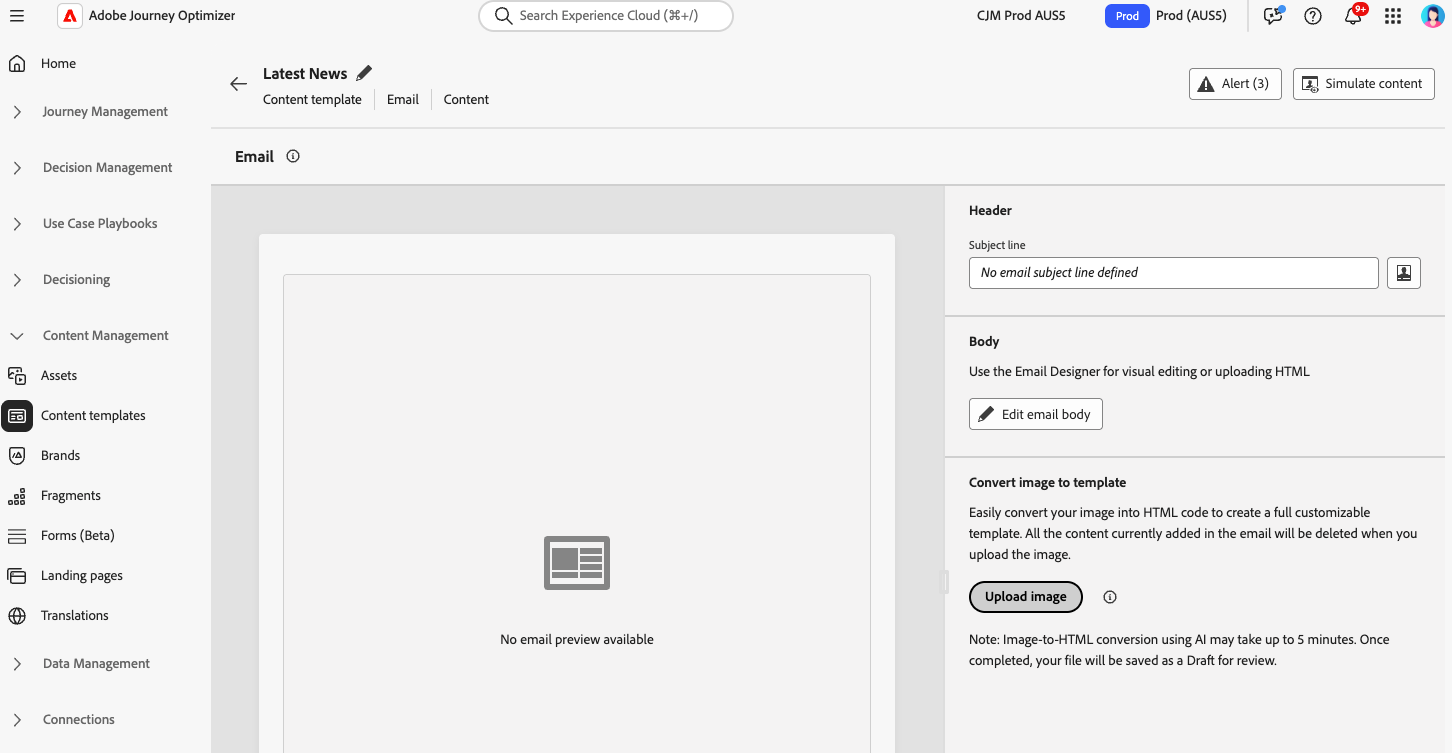
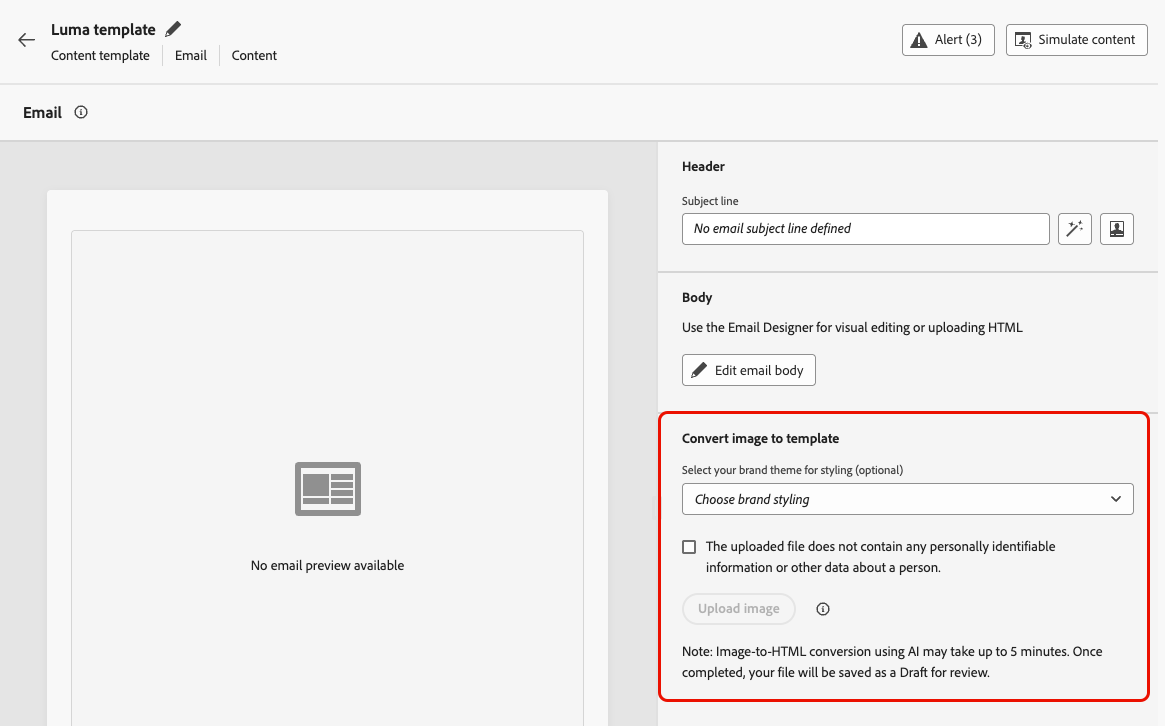
DOCAC-14105 - Themes in HTML converter + updates (#2220)
* DOCAC-14105 - Theme option added to HTML converter

* Update image-to-html.md

Improved AI-generated content

* DOCAC-14152 - Moved Image to HTML template page + link updates

* Update release-notes.md

diff --git a/help/using/content-management/image-to-html.md b/help/using/content-management/image-to-html.md
@@ -1,7 +1,7 @@
 ---
 solution: Journey Optimizer
 product: journey optimizer
-title: Convert images to HTML templates with the image to HTML converter
+title: Convert images to HTML templates
 description: Learn how to use the AI-powered image to HTML converter to convert image designs into editable HTML email templates
 feature: Email Design
 topic: Content Management, Artificial Intelligence
@@ -11,107 +11,102 @@ badge: label="Limited availability" type="Informative"
 keywords: email, template, image, HTML, AI, design, converter
 exl-id: d13467b7-2f3c-4707-a7e0-9b46cb6cafb1
 ---
-# Convert images to HTML templates with the image to HTML converter {#image-to-html}
-
-## Overview {#overview}
-
-The image to HTML converter is an innovative AI-powered feature available in the **Content Templates** menu that dramatically speeds up email creation by converting static image designs into fully customizable, modular HTML email content templates. This no-code tool enables marketers to transform visual designs from graphic designers or design tools into responsive, editable email templates that can be saved to the Content Templates library and then reused across multiple journeys and campaigns—without requiring technical expertise.
+# Convert images to HTML templates {#image-to-html}
 
 >[!AVAILABILITY]
 >
 >This capability is available in Limited Availability. Contact your Adobe representative to gain access.
 
-By leveraging generative AI technology, the image to HTML converter analyzes the layout, typography, colors, and visual elements in your image and generates clean, modular HTML code that maintains design fidelity while ensuring full editability and compatibility with the Email Designer. This eliminates the manual, time-consuming process of converting mockups to HTML and reduces dependency on development resources.
+[!DNL Journey Optimizer] helps you dramatically speed up email creation by converting static image designs into fully customizable, modular HTML email content templates.
 
-**Key benefits:**
+By leveraging generative AI technology, an integrated tool analyzes the layout, typography, colors, and visual elements in your image and generates clean, modular HTML code that maintains design fidelity while ensuring full editability with the [Email Designer](../email/get-started-email-design.md). 
 
-* **Design to HTML in minutes**: AI-powered, no-code conversion transforms static images into editable, modular templates in minutes, dramatically reducing template creation time
-* **Empowers non-technical users**: Reduces dependency on design or development teams — marketers can generate and customize templates with minimal technical knowledge
-* **Simplified platform migration**: Convert external templates or designs from other platforms into AJO-ready HTML effortlessly
-* **Build a reusable template library**: Create a scalable, brand-consistent template library that can be used across multiple journeys and campaigns
-* **Design fidelity**: Maintain visual consistency with your original design while creating fully editable content
-* **Email compatibility**: Generate HTML that works seamlessly with the Email Designer and across email clients
+This no-code capability enables marketers to transform visual assets from graphic designers or design tools into responsive, editable email templates that can be saved and reused across multiple journeys and campaigns—without requiring technical expertise.
 
-## Common use cases {#use-cases}
+The main key benefits are as follows:
+
+* **Faster than hand-coding** - The converter turns images into editable HTML in minutes, so you can skip the manual time-consuming mockup-to-HTML workflow.
+* **No technical skills needed** - Marketers can produce and adjust templates without design or development support.
+* **Reusable across campaigns** - Save templates to your library and use them in any journey or campaign.
+* **Stays true to the design** - Output matches your layout and styling while being fully compatible with the Email Designer.
+
+<!--* **Design fidelity**: Maintain visual consistency with your original design while creating fully editable content
+* **Email compatibility**: Generate HTML that works seamlessly with the Email Designer and across email clients-->
+
++++ Common use cases
 
 The image to HTML converter is ideal for:
 
-* **Platform migration**: Migrating from another email marketing platform? Convert your existing email designs into AJO-ready HTML templates without rebuilding from scratch
-* **Design mockup conversion**: Transform design mockups from tools like Photoshop, Figma, or other design software into functional email templates
-* **Quick template creation**: Generate email templates rapidly for time-sensitive campaigns without waiting for developer resources
-* **Building template libraries**: Create a comprehensive library of brand-consistent templates that non-technical team members can customize and deploy
-* **Reducing technical dependencies**: Enable marketers to create and iterate on email templates independently, speeding up campaign execution
+* **Platform migration**: Migrating from another email marketing platform? Convert your existing email designs into [!DNL Journey Optimizer]-ready HTML templates without rebuilding from scratch.
+* **Design mockup conversion**: Transform design mockups from tools like Photoshop, Figma, or other design software into functional email templates.
+* **Quick template creation**: Generate email templates rapidly for time-sensitive campaigns without waiting for developer resources.
+* **Building template libraries**: Create a comprehensive library of brand-consistent templates that non-technical team members can customize and deploy.
+* **Reducing technical dependencies**: Enable marketers to create and iterate on email templates independently, speeding up campaign execution.
 
-## Prerequisites {#prerequisites}
++++
 
-Before using the image to HTML converter, ensure you have:
+## Convert an image to an HTML template {#convert-image}
 
-* Access to Adobe Journey Optimizer with the Email Designer
-* An image file in JPEG or PNG format containing your email design
-* Limited Availability access to the image to HTML converter feature (contact your Adobe representative)
+To convert an image design into a fully customizable HTML email template, follow the steps below.
 
->[!NOTE]
->
->For best results, use high-quality images with clear visual elements and readable text. Images should ideally be between 600-800 pixels wide to match standard email dimensions.
+1. Ensure you have an image file in JPEG or PNG format containing your email design.
 
-## Convert an image to HTML template {#convert-image}
+    >[!NOTE]
+    >
+    >For best results, use high-quality images with clear visual elements and readable text. Images should ideally be between 600-800 pixels wide to match standard email dimensions.
 
-To convert an image design into a fully customizable HTML email template, follow these steps:
-
-1. Access the Content Templates list by selecting **[!UICONTROL Content Management]** > **[!UICONTROL Content Templates]** from the left menu.
+1. Access the content template list by selecting **[!UICONTROL Content Management]** > **[!UICONTROL Content templates]** from the left menu.
 
 1. Click **[!UICONTROL Create template]**.
 
 1. Fill in the template details and select **[!UICONTROL Email]** as the channel and click **[!UICONTROL Create]**.
 
-1. In the right section, in the **[!UICONTROL Convert image to template]** section, click the **[!UICONTROL Upload image]** button to select your image file.
+1. In the **[!UICONTROL Convert image to template]** section, perform the following steps:
 
-    ![](assets/email_designer_convert_img.png)
+   * (Optional) If your organization has brand themes defined in Journey Optimizer, you can select a theme as input so that the generated HTML is styled according to your brand theme parameters. [Learn more about themes](../email/apply-email-themes.md)
+
+        Styling such as background color, button color, fonts, line spacing, margins, and padding will be applied to the generated template, reducing additional design work and producing a template that is ready to use with minimal edits.
+
+    * To be able to upload an image, make sure it does not contain any personally identifiable information (PII) or other sensitive data, and check the corresponding option to acknowledge that you have reviewed the file.
+
+   * Click the **[!UICONTROL Upload image]** button to select your image file.
+
+        ![](../email/assets/email_designer_convert_img.png)
     
+        >[!CAUTION]
+        >
+        >When you upload an image for conversion, all content currently added in the email will be deleted and replaced with the generated template.
 
-    >[!CAUTION]
-    >
-    >When you upload an image for conversion, **all content currently added in the email will be deleted and replaced** with the generated template. If you have existing content in your email, make sure to save it before proceeding with the image conversion.
 
-
-1. Choose the image and click **[!UICONTROL Open]** to start the AI-powered conversion process.
+1. After selecting the image, click **[!UICONTROL Open]** to start the AI-powered conversion process.
 
     >[!NOTE]
     >
-    >The generation process can take up to 5 minutes depending on the complexity and size of your image design. The AI processing happens in the background, so you can navigate away from this screen and work on other tasks while the conversion is in progress. You don't need to keep the screen open.
+    >The generation process can take up to 5 minutes depending on the complexity and size of your image design. You can navigate away from this screen and work on other tasks while the conversion is in progress.
 
-1. Once the conversion is complete, your content template will be automatically saved as a draft. You can then review and edit the generated HTML template in the Email Designer canvas.
+1. Once the conversion is complete, your content template is automatically saved as a draft.
 
-    ![](assets/email_designer_converted_img.png)
+    ![](../email/assets/email_designer_converted_img.png)
 
+1. Click **[!UICONTROL Edit email body]**. The converted template opens in the [Email Designer](../email/get-started-email-design.md) with full editing capabilities. You can now:
 
-1. The converted template opens in the Email Designer with full editing capabilities. You can now:
-
-    * Edit text content and apply personalization
+    * Review, edit text content and apply personalization
     * Modify images and add links
     * Adjust colors, fonts, and styling
     * Add, remove, or rearrange content components
     * Leverage all Email Designer features as with any other template
 
-    ![](assets/email_designer_html_components.png)
+    ![](../email/assets/email_designer_html_components.png)
 
 1. Make any necessary adjustments to refine the template and match your brand guidelines.
 
-1. Once satisfied with your template, click **[!UICONTROL Save]** to save the content template.
+1. Once satisfied with your template, click **[!UICONTROL Save]**.
 
-1. Your template is now available in the Content Templates library and can be used when creating emails in journeys or campaigns. [Learn how to use content templates](use-email-templates.md)
-
-## Use your converted template in emails {#use-template}
-
-Once you've created and saved your content template, you can use it when designing emails in journeys or campaigns:
-
-When creating an email in a journey or campaign, access the Email Designer from the **[!UICONTROL Edit content]** screen.
-
-Learn more about [working with email templates](use-email-templates.md) and [creating content templates](../content-management/content-templates.md).
+Your template is now available in the content template library and can be used when creating emails in journeys or campaigns. [Learn how to use content templates](../email/use-email-templates.md)
 
 ## Best practices {#best-practices}
 
-To achieve optimal results when using the image to HTML converter, follow these recommendations:
+To achieve optimal results when converting images to HTML content templates, follow these recommendations.
 
 **Before you start**
 
@@ -143,9 +138,9 @@ To achieve optimal results when using the image to HTML converter, follow these 
 * **Personalization**: Add dynamic content and personalization tokens as required
 * **Accessibility**: Review and enhance accessibility features if needed
 
-## Limitations and considerations {#limitations}
+## Guardrails and recommendations {#limitations}
 
-Be aware of the following limitations when using the Image to HTML converter:
+Be aware of the following limitations when converting images to HTML content templates.
 
 * **AI interpretation**: The AI generates HTML based on visual interpretation of your image. Complex or unusual designs may require manual adjustments after conversion.
 
@@ -209,7 +204,7 @@ The image to HTML converter is available in Limited Availability. You need Limit
 
 +++Can I reuse converted templates across multiple campaigns?
 
-Yes! Templates created with the image to HTML converter are automatically saved to the Content Templates library. You can access and reuse them in any email across your journeys and campaigns. [Learn more](../content-management/content-templates.md)
+Yes! Templates created with the image to HTML converter are automatically saved to the Content Templates library. You can access and reuse them in any email across your journeys and campaigns. [Learn more](content-templates.md)
 
 +++
 
@@ -221,9 +216,10 @@ Yes! The image to HTML converter is ideal for migrating from other email marketi
 
 ## Related topics {#related-topics}
 
-* [Get started with content templates](../content-management/content-templates.md)
-* [Create content templates](../content-management/create-content-templates.md)
-* [Use email templates](use-email-templates.md)
-* [Get started with email design](get-started-email-design.md)
-* [Import your email content](existing-content.md)
-* [Design content from scratch](content-from-scratch.md)
+* [Get started with content templates](content-templates.md)
+* [Create content templates](create-content-templates.md)
+* [Use email templates](../email/use-email-templates.md)
+* [Leverage email themes](../email/apply-email-themes.md)
+* [Get started with email design](../email/get-started-email-design.md)
+* [Import your email content](../email/existing-content.md)
+* [Design content from scratch](../email/content-from-scratch.md)

diff --git a/help/using/rn/release-notes.md b/help/using/rn/release-notes.md
@@ -263,8 +263,9 @@ Improvements coming with this release are listed below.
 
 #### Email Designer
 
-* **Use a brand theme to convert an image to an email template** - When converting an image to an email template in Journey Optimizer, you can now use a theme as input so the generated HTML follows your brand parameters. Styling such as background color, button color, fonts, line spacing, margins, and padding is applied automatically, reducing manual design work and delivering a template that is ready to use with minimal edits.
+* **Use themes to convert images to email templates** - When converting an image to an email template in Journey Optimizer, you can now use a theme as input so the generated HTML follows your brand parameters. Styling such as background color, button color, fonts, line spacing, margins, and padding is applied automatically, reducing manual design work and delivering a template that is ready to use with minimal edits. [Read more](../content-management/image-to-html.md)
 
+  Availability date: February 13, 2026.
 
 * **Update brands with new color tab** - Brand guidelines help ensure your brand is presented consistently across all touchpoints. The new Colors section defines the standards for your brand's color system, outlining how colors are selected, organized, and applied across experiences. It ensures consistent use of primary, secondary, accent, and neutral colors to support a cohesive, accessible, and recognizable brand identity.
 
@@ -284,7 +285,7 @@ Improvements coming with this release are listed below.
 * **Experience Decisioning preview in Code-based Experience channel** - You can now preview decision items when configuring Experience Decisioning with the Code-based Experience channel. Preview is available directly in the authoring interface before going live.
 
 
-* **Attach fragments to decision items** - Journey Optimizer now provides the ability to attach fragments to decision items which can be leveraged in code-based experience campaigns through decision policies.
+* **Attach fragments to decision items** - Journey Optimizer now provides the ability to attach fragments to decision items which can be leveraged in code-based experience campaigns through decision policies. [Read more](../experience-decisioning/fragments-decision-policies.md)
 
   **Note**: Previously released in Limited Availability, this capability is now available to all environments (General Availability).
 
@@ -297,6 +298,7 @@ Improvements coming with this release are listed below.
 
   **Note**: Previously released in Limited Availability, this capability is now available to all environments (General Availability).
 
+#### SMS
 
 * **SMS Webhooks** - <strong>Webhooks</strong> are now supported across all SMS providers. You can configure each webhook based on its intended purpose: <strong>Inbound webhooks</strong> to capture incoming messages and <strong>Feedback webhooks</strong> to receive delivery receipts, status updates, and other message-related events. [Read more](../sms/sms-webhook.md)
 

diff --git a/help/TOC.md b/help/TOC.md
@@ -267,7 +267,6 @@ solution: Journey Optimizer
         + [Import your content](using/email/existing-content.md)
         + [Code your own content](using/email/code-content.md)
         + [Use email templates](using/email/use-email-templates.md)
-        + [Convert images to HTML templates](using/email/image-to-html.md)
         + [Leverage email themes](using/email/apply-email-themes.md)
         + [Attach PDF files to your emails](using/email/pdf-attachments.md)
       + Design your content {#add-content}
@@ -451,6 +450,7 @@ solution: Journey Optimizer
     + [Get started with content templates](using/content-management/content-templates.md)
     + [Access & manage templates](using/content-management/access-content-templates.md)
     + [Create content templates](using/content-management/create-content-templates.md)
+    + [Convert images to HTML templates](using/content-management/image-to-html.md)
     + [Lock content in email templates](using/content-management/content-locking.md)
     + [Test content templates](using/content-management/test-content-templates.md)
     + [Use content templates](using/content-management/use-content-templates.md)

diff --git a/help/using/rn/release-notes-2025.md b/help/using/rn/release-notes-2025.md
@@ -29,7 +29,7 @@ This page lists all the features and improvements for [!DNL Journey Optimizer] r
 <p>The image to HTML converter is an AI-powered feature that converts static image designs into fully customizable, modular HTML email content templates. This no-code tool enables marketers to transform visual designs into responsive, editable email templates without requiring technical expertise—perfect for platform migration, rapid template creation, and building reusable template libraries.</p>
 <p><img src="../email/assets/email_designer_converted_img.png"/></p>
 <p>This capability is available in Limited Availability. Contact your Adobe representative to gain access.</p>
-<p>For more information, refer to the <a href="../email/image-to-html.md">detailed documentation</a>.</p>
+<p>For more information, refer to the <a href="../content-management/image-to-html.md">detailed documentation</a>.</p>
 <p>Availability date: Oct 30, 2025</p>
 </td>
 </tr>

diff --git a/monthly-updates-report.md b/monthly-updates-report.md
@@ -119,7 +119,7 @@ exl-id: 7962189b-4135-4f88-b91d-40d21cdf6c6d
 - [Activate High throughput mode for API triggered campaigns](help/using/campaigns/api-triggered-high-throughput.md) - Oct 27
 - [Set quiet hours](help/using/conflict-prioritization/quiet-hours.md) - Oct 22
 - [Journey Optimizer Experimentation Accelerator](help/using/content-management/experiment-accelerator-gs.md) - Oct 24
-- [Convert images to HTML templates with the image to HTML converter](help/using/email/image-to-html.md) - Oct 30
+- [Convert images to HTML templates with the image to HTML converter](help/using/content-management/image-to-html.md) - Oct 30
 - [Create decisions policies](help/using/experience-decisioning/create-decision-policy.md) - Oct 7
 - [Use decision policies in messages](help/using/experience-decisioning/use-decision-policy.md) - Oct 9
 - [Configure your Channel configuration](help/using/orchestrated/channel-config.md) - Oct 14

diff --git a/help/using/email/get-started-email-design.md b/help/using/email/get-started-email-design.md
@@ -46,7 +46,7 @@ Once you have created an email, you can start designing your email content.
 
     * **Import existing HTML content** from a file or a .zip folder. Learn how to import an email content in [this section](existing-content.md).
 
-    * **Convert image designs to HTML templates** using the AI-powered image to HTML converter. Learn how to transform static images into editable email templates in [this section](image-to-html.md).
+    * **Convert image designs to HTML templates** using the AI-powered image to HTML converter. Learn how to transform static images into editable email templates in [this section](../content-management/image-to-html.md).
 
     * **Select an existing content** from a list of built-in or custom templates. Learn how to work with email templates in [this section](../email/use-email-templates.md).
 

diff --git a/help/using/email/existing-content.md b/help/using/email/existing-content.md
@@ -24,7 +24,7 @@ exl-id: 52011299-0c65-49c3-9edd-ba7bed5d7205
 
 >[!TIP]
 >
->If you have image designs (JPEG or PNG) instead of HTML files, you can use the [image to HTML converter](image-to-html.md) to automatically convert them into editable HTML email templates using AI.
+>If you have image designs (JPEG or PNG) instead of HTML files, you can use the [image to HTML converter](../content-management/image-to-html.md) to automatically convert them into editable HTML email templates using AI.
 
 To import a file containing HTML content, follow the steps below:
 

diff --git a/help/using/rn/documentation-updates.md b/help/using/rn/documentation-updates.md
@@ -184,7 +184,7 @@ This page lists all the latest changes in [!DNL Journey Optimizer] documentation
 
 ## October 2025 {#october-2025}
 
-* You can now convert images to HTML templates using the image to HTML converter. [Read more](../email/image-to-html.md)
+* You can now convert images to HTML templates using the image to HTML converter. [Read more](../content-management/image-to-html.md)
 
 * Information about the Adobe Journey Optimizer release cycle is now available. [Read more](releases.md)
 

diff --git a/help/using/start/ai-features.md b/help/using/start/ai-features.md
@@ -273,7 +273,7 @@ Browse Journey Optimizer playbooks for common scenarios like:
 
 Transform static image designs (JPEG, PNG) into editable HTML email templates using AI-powered conversion technology.
 
-[Learn more about Image to HTML](../email/image-to-html.md)
+[Learn more about Image to HTML](../content-management/image-to-html.md)
 
 ### GenStudio for Performance Marketing
 
